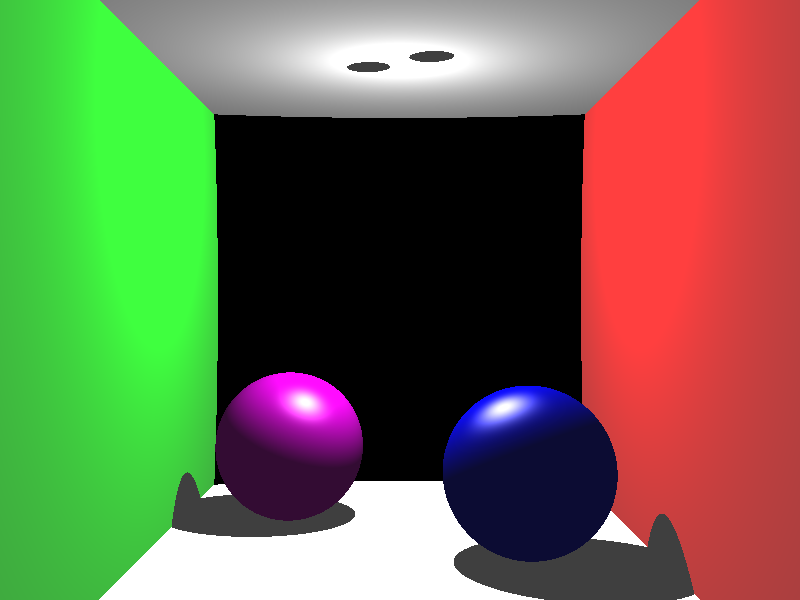
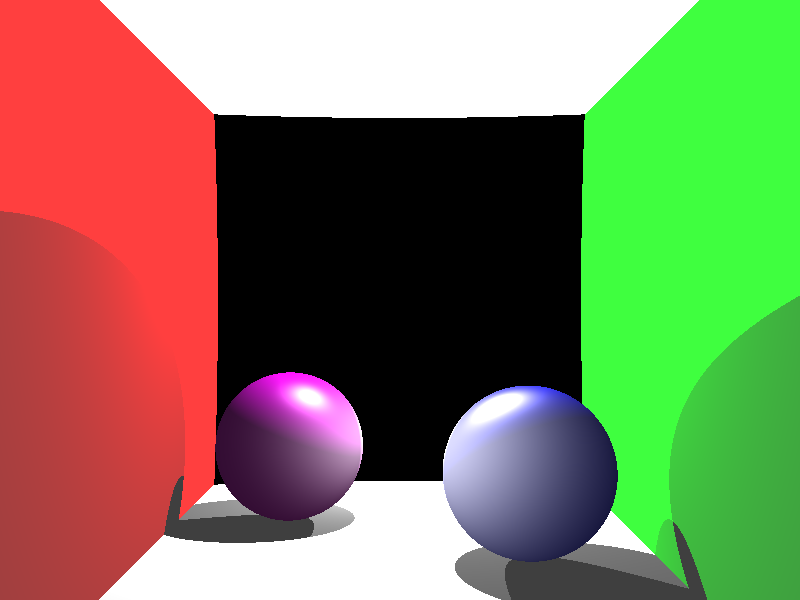
Fix multiple light shading

diff --git a/VCG_Raytracer/src/raytracer/Raytracer.java b/VCG_Raytracer/src/raytracer/Raytracer.java
@@ -78,8 +78,8 @@ public class Raytracer {
     private RgbColor traceRay(int recursionCounter, Ray inRay, RgbColor localColor, ArrayList<Intersection> intersectList){
         RgbColor outColor = localColor;
 
-        // For each pixel testing each shape to get nearest intersection
-        Intersection intersection = getIntersection(inRay, Float.MAX_VALUE);
+        // For each pixel testing each shape to get nearest intersection; the range of the Ray is this time unlimited
+        Intersection intersection = getIntersectionOnShapes(inRay, Float.MAX_VALUE);
 
         if(intersection.isHit() && intersection.isIncoming()){
             // Stop! Enter, if the last recursion level is reached, but it is not the final ray to the light
@@ -101,31 +101,36 @@ public class Raytracer {
     private RgbColor traceIllumination(Intersection finalIntersection, ArrayList<Intersection> intersectList) {
         RgbColor illuColor = new RgbColor(0, 0, 0);
 
+        boolean isInTheShade = true;
+
+        // Check the ray from the intersection point to any light source
         for (Light light : mLightList) {
             Ray lightRay = new Ray(finalIntersection.getIntersectionPoint(), light.getPosition());
 
-            Intersection lightIntersection = getIntersection(lightRay, Float.MAX_VALUE, finalIntersection);
+            Intersection lightIntersection = getIntersectionBetweenLight(lightRay, finalIntersection);
 
-            // This is never happening! Is always != null: BAAAAADDD
+            // Only if no intersection is happening between the last intersection Point and the light source draw the color
             if(!lightIntersection.isHit() || lightIntersection.isOutOfDistance() ){
                 // This was the last ray and nothing was hit on the ray from the last object to the light source
                 // Probably wrong. Calculating the color of each object traced, but must know, if there was light, too
                 for(Intersection stepIntersec : intersectList) {
-                    // calculate the color of every object, that was hit in between, depending on recursive level
-                    illuColor = illuColor.add(calculateLocalIllumination(light, stepIntersec.getShape(), stepIntersec));
+                    // Calculate the color of every object, that was hit in between, depending on recursive level
+                    illuColor = illuColor.add( calculateLocalIllumination(light, stepIntersec.getShape(), stepIntersec ));
+                    isInTheShade = false;
                 }
-            }
-            else{
-                //Log.warn(this, "Shadow on ");
-                // Something was hit in between of the light source and the current shape. Draw ambient
-                return calculateShadowColor(finalIntersection.getShape());
             }
         }
 
+        // Something was hit in between of the light source and the current shape. Draw ambient
+        if( isInTheShade ){
+            return calculateShadowColor(finalIntersection.getShape());
+        }
+
+        // Finally add ambient color to each object
         return illuColor.add(finalIntersection.getShape().getAmbient());
     }
 
-    private Intersection getIntersection(Ray inRay, float tempDistance) {
+    private Intersection getIntersectionOnShapes(Ray inRay, float tempDistance) {
         Intersection finalIntersection = new Intersection(inRay, null);
 
         // 2: Intersection test with all shapes
@@ -141,26 +146,23 @@ public class Raytracer {
         return finalIntersection;
     }
 
-    private Intersection getIntersection(Ray inRay, float tempDistance, Intersection prevIntersec) {
-        Intersection finalIntersection = new Intersection(inRay, null);
-
+    private Intersection getIntersectionBetweenLight(Ray inRay, Intersection prevIntersec) {
         // 2: Intersection test with all shapes
         for( Shape shape : mShapeList ){
+            // Important: Avoid intersection with itself
             if(!prevIntersec.getShape().equals(shape)) {
+
+                // Find intersection between shape and the light source
                 Intersection intersection = shape.intersect(inRay);
 
                 // Shape was not hit + the ray is incoming + the distance is adequate
-                if (intersection.isHit() && intersection.isIncoming() && (intersection.getDistance() < tempDistance)) {
-                    tempDistance = intersection.getDistance();
-                    finalIntersection = intersection;
+                if (intersection.isHit() && intersection.isIncoming()) {
+                    // There was something in the way, can terminate now
+                    return intersection;
                 }
-                //Log.error(this, "Non equal shapes");
-            }
-            else{
-                //Log.warn(this, "Equal shapes");
             }
         }
-        return finalIntersection;
+        return new Intersection(inRay, null);
     }
 
     private RgbColor calculateLocalIllumination(Light light, Shape shape, Intersection intersection){

diff --git a/VCG_Raytracer/src/Main.java b/VCG_Raytracer/src/Main.java
@@ -83,9 +83,10 @@ public class Main {
     }
 
     private static void setupLights(Scene renderScene) {
-        renderScene.createPointLight(new Vec3( 0, DIMENSION-1, DIMENSION ), RgbColor.WHITE);
-       //renderScene.createPointLight(new Vec3( 0, -DIMENSION, 0 ), RgbColor.WHITE);
-       // renderScene.createPointLight(new Vec3( -200, -200, 0 ), RgbColor.WHITE);
+        // Note: Never put the light source inside a plane
+        renderScene.createPointLight(new Vec3( 0, DIMENSION-1, DIMENSION-1 ), RgbColor.WHITE);
+        renderScene.createPointLight(new Vec3( 0, -DIMENSION+1, 0 ), RgbColor.WHITE);
+        //renderScene.createPointLight(new Vec3( 0, -DIMENSION+1, -DIMENSION+1 ), RgbColor.WHITE);
     }
 
     private static void setupCameras(Scene renderScene) {
@@ -105,8 +106,8 @@ public class Main {
     private static void setupCornellBox(Scene renderScene) {
         // Materials: Ambient Color, Diffuse Coeeff
         Material planeMaterial = new LambertMaterial(RgbColor.LIGHT_GRAY, RgbColor.WHITE);
-        Material planeMaterialLeft = new LambertMaterial(RgbColor.LIGHT_GRAY, RgbColor.RED);
-        Material planeMaterialRight = new LambertMaterial(RgbColor.LIGHT_GRAY, RgbColor.GREEN);
+        Material planeMaterialLeft = new LambertMaterial(RgbColor.LIGHT_GRAY, RgbColor.GREEN);
+        Material planeMaterialRight = new LambertMaterial(RgbColor.LIGHT_GRAY, RgbColor.RED);
 
         renderScene.createPlane(new Vec3( DIMENSION, 0f, 0 ), planeMaterialLeft, Plane.FACING_LEFT);
         renderScene.createPlane(new Vec3( -DIMENSION, 0f, 0 ), planeMaterialRight, Plane.FACING_RIGHT);
